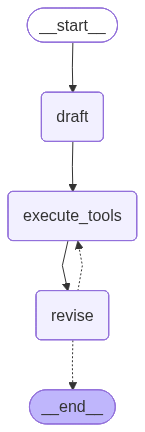
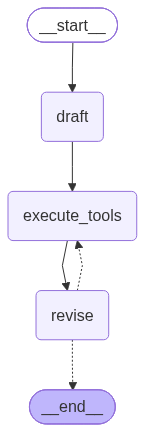
fix event_loop and revise prompt

diff --git a/main.py b/main.py
@@ -20,13 +20,14 @@ def revise_node(state:MessagesState):
 
 def event_loop(state: MessagesState) -> Literal["execute_tools", END]:
     """Determine whether to continue or end based on iteration count"""
-    count_tool_visits = sum(
-        isinstance(item, ToolMessage) for item in state['messages']
+    tool_calls = sum(
+        isinstance(msg, ToolMessage)
+        for msg in state["messages"]
     )
-    num_iterations = count_tool_visits
-    if num_iterations > MAX_ITERATIONS:
+    if tool_calls >= MAX_ITERATIONS:
         return END
     return "execute_tools"
+
 
 builder = StateGraph(MessagesState)
 builder.add_node('draft', draft_node)
@@ -47,7 +48,7 @@ res= graph.invoke(
         'messages': [
             {
                 'role': 'user',
-                'content': 'Write about AI-Powered SOC / Autonomous soc problem domain, list startups that do that and raised capital.'
+                'content': 'Write about shrimp startup in Indonesia and list top 3 startup that got invested'
             }
         ]
     }

diff --git a/chains.py b/chains.py
@@ -57,6 +57,12 @@ Revise your previous answer using the new information.
         - [1] https://example.com
         - [2] https://example.com
     - You should use the previous critique to remove superfluous information from your answer and make SURE it is not more than 250 words.
+    - Always generate 1-3 NEW search queries that would further improve the answer.
+        The search queries must:
+        - investigate missing details identified in your reflection
+        - never repeat previous search queries
+        - become increasingly specific each iteration
+        - explore aspects not yet covered
 """
 
 revisor = actor_prompt_template.partial(
